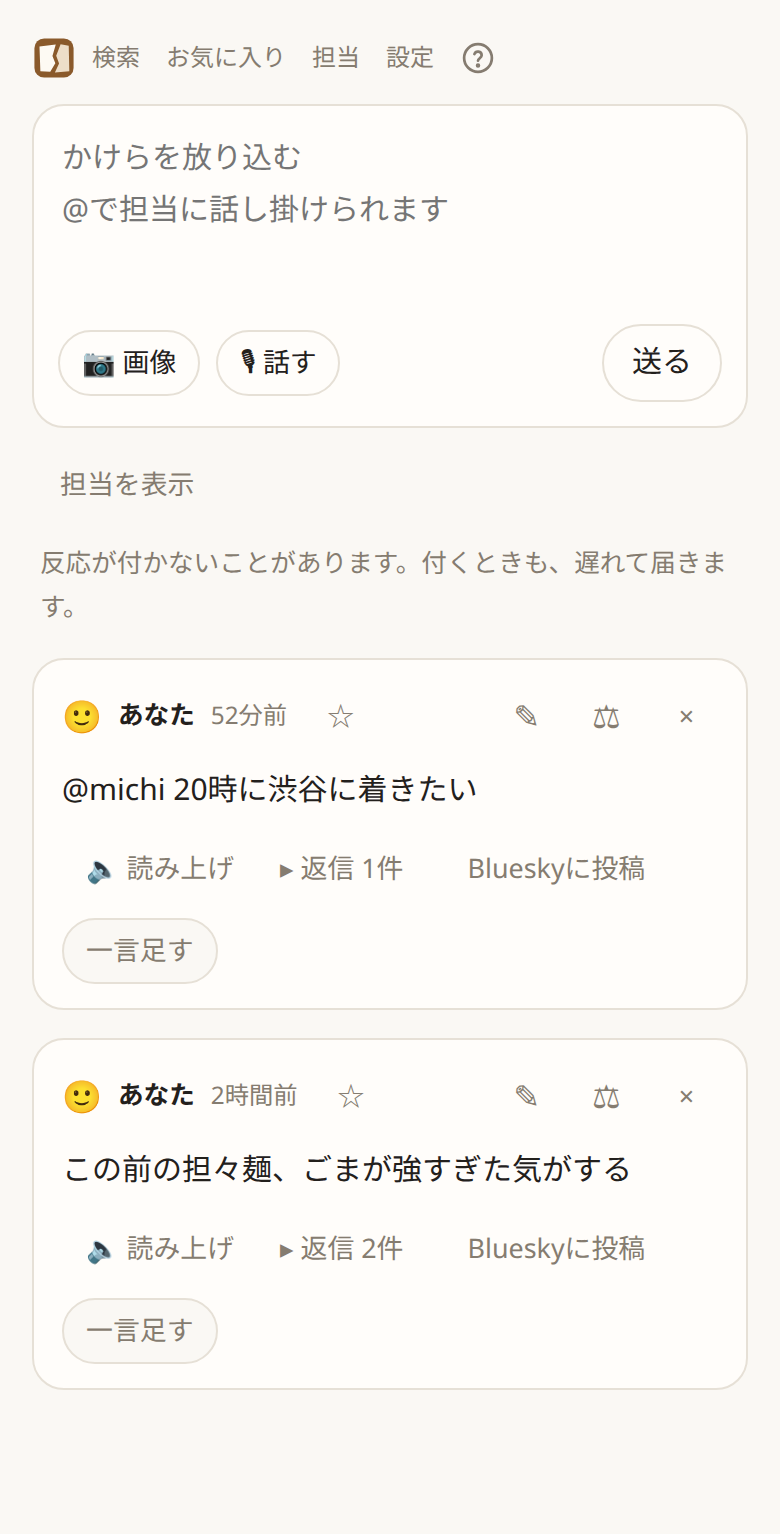
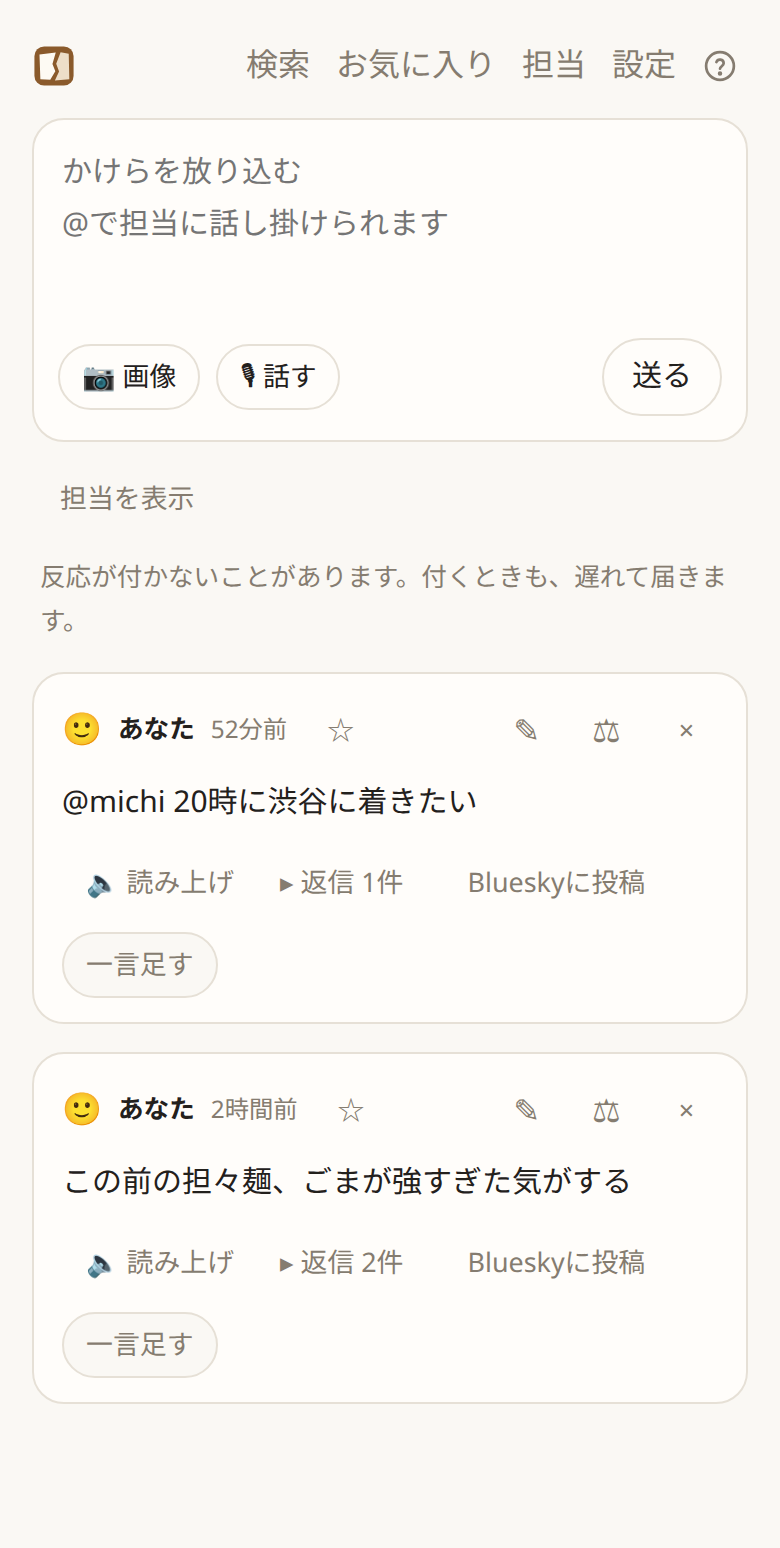
Align mobile navigation and constrain enlarged settings layout

diff --git a/frontend/src/styles.css b/frontend/src/styles.css
@@ -66,12 +66,13 @@ body {
 .brand-mark { width: 22px; height: 22px; border-radius: 6px; }
 /* Navigation stays separate from each thread’s read-aloud control. */
 .topbar .nav { font-size: 0.8rem; white-space: nowrap; }
-/* Compact navigation uses the space beside the brand on phones.
+/* Compact navigation aligns to the right of the brand on phones.
    Keep wrapping available for large text and especially narrow screens. */
 @media (max-width: 480px) {
-  .topbar { gap: 3px; flex-wrap: wrap; }
+  .topbar { gap: 3px; flex-wrap: wrap; justify-content: flex-end; }
+  .topbar .brand { margin-right: auto; }
   .topbar > .spacer { display: none; }
-  .topbar .nav { font-size: .75rem; padding: 4px; }
+  .topbar .nav { font-size: 1rem; padding: 4px; }
   .topbar .nav.help, .topbar .nav.logout { padding: 4px; }
   .brand-name { display: none; }
 }
@@ -393,7 +394,14 @@ body.sheet-open .topbar { z-index: 21; }
 .model-picker-list .hint { padding: 8px; }
 /* The settings sheet: each h3 opens a section, set off by a rule and an accent
    label, so a long sheet reads as a few groups rather than one column. */
-.settings-panel { gap: 12px; padding-bottom: 32px; }
+.settings-panel { grid-template-columns: minmax(0, 1fr); gap: 12px; padding-bottom: 32px; overflow-wrap: anywhere; }
+/* Native controls and nested grids can otherwise impose their content width,
+   especially with enlarged text or long device-specific voice names. */
+.settings-panel :is(.field, .settings-block, .advanced-body, .advanced-category-body, .openrouter-models, .mcp-connection, .mcp-connection-row, .bluesky-connection) {
+  min-width: 0;
+  grid-template-columns: minmax(0, 1fr);
+}
+.settings-panel :is(input, select, button, .chip) { min-width: 0; max-width: 100%; }
 .settings-panel p { margin: 0; line-height: 1.6; }
 .settings-panel h3 {
   margin: 18px 0 0;

diff --git a/frontend/manual/index.html b/frontend/manual/index.html
@@ -131,7 +131,7 @@
         <section id="ja-timeline">
           <h2>3. 反応を読む・返す</h2>
           <figure>
-            <img src="/captures/ja/timeline.png" alt="タイムライン。自分のかけらの下に、担当の発言が折りたたまれて並ぶ" loading="lazy" width="390" height="767" />
+            <img src="/captures/ja/timeline.png" alt="タイムライン。自分のかけらの下に、担当の発言が折りたたまれて並ぶ" loading="lazy" width="390" height="774" />
             <figcaption>自分のかけらと、その下の担当の発言。会話は「返信 N件」の下にたたまれます。</figcaption>
           </figure>
           <h3>反応の届き方</h3>
@@ -722,7 +722,7 @@
         <section id="en-timeline">
           <h2>3. Reading and replying</h2>
           <figure>
-            <img src="/captures/en/timeline.png" alt="The timeline: your fragments, with what the personas said folded underneath" loading="lazy" width="390" height="771" />
+            <img src="/captures/en/timeline.png" alt="The timeline: your fragments, with what the personas said folded underneath" loading="lazy" width="390" height="778" />
             <figcaption>Your fragments with what the personas said underneath. Conversations fold under “N replies”.</figcaption>
           </figure>
           <h3>How reactions arrive</h3>

diff --git a/frontend/.storybook/preview.js b/frontend/.storybook/preview.js
@@ -1,10 +1,23 @@
 import "../src/styles.css";
 import { setLanguage } from "../src/i18n.js";
+import { setTextSize } from "../src/text-size.js";
 
 // Both languages come out of the same source strings, so a story that reads
 // well in one and badly in the other is worth seeing without a rebuild.
 export default {
   globalTypes: {
+    textSize: {
+      description: "文字サイズ",
+      toolbar: {
+        icon: "zoom",
+        items: [
+          { value: "standard", title: "標準" },
+          { value: "large", title: "大" },
+          { value: "xlarge", title: "特大" },
+        ],
+        dynamicTitle: true,
+      },
+    },
     lang: {
       description: "表示言語",
       toolbar: {
@@ -17,11 +30,12 @@ export default {
       },
     },
   },
-  initialGlobals: { lang: "ja" },
+  initialGlobals: { lang: "ja", textSize: "standard" },
   decorators: [
     (story, context) => {
       setLanguage(context.globals.lang || "ja");
       document.documentElement.lang = context.globals.lang || "ja";
+      setTextSize(context.globals.textSize || "standard");
       return story();
     },
   ],

diff --git a/frontend/lp/index.html b/frontend/lp/index.html
@@ -57,8 +57,8 @@
           </div>
         </div>
         <figure class="shot">
-          <img class="ja" src="/captures/ja/timeline.png" alt="タイムライン。自分のかけらの下に、担当の発言が並ぶ" width="390" height="767" />
-          <img class="en" src="/captures/en/timeline.png" alt="The timeline: your fragments, with what the personas said underneath" width="390" height="771" />
+          <img class="ja" src="/captures/ja/timeline.png" alt="タイムライン。自分のかけらの下に、担当の発言が並ぶ" width="390" height="774" />
+          <img class="en" src="/captures/en/timeline.png" alt="The timeline: your fragments, with what the personas said underneath" width="390" height="778" />
         </figure>
       </section>
 

diff --git a/frontend/stories/Settings.stories.js b/frontend/stories/Settings.stories.js
@@ -13,6 +13,11 @@ function panelOf(current, info = about, extra = {}) {
 }
 
 export const Default = { name: "既定（Nebius・ブラウザ音声認識）", render: () => panelOf(settings) };
+export const ExtraLarge = {
+  name: "特大文字（スマホ幅の確認）",
+  globals: { textSize: "xlarge" },
+  render: () => panelOf(settings),
+};
 export const Dictating = { name: "Web検索あり・音声のAI整形ON", render: () => panelOf(dictatingSettings) };
 export const InitialSetup = { name: "初回設定", render: () => panelOf({ ...settings, apiKey: "" }) };
 // Once an external agent is connected, the waits before falling back show.

diff --git a/docs/system/frontend.md b/docs/system/frontend.md
@@ -12,13 +12,15 @@ Frontend composition, requests, live updates, reminder push notifications, offli
 
 ## Initialization and components
 
-`bootstrap.js` checks authentication before loading `app.js`. `app.js` assembles the composer, persona list, timeline, and settings, search, memory, and other panels. `screen.js` provides the basic layout; `feed.js` renders conversations and their controls. Logout is an icon button with a localized accessible label and tooltip. On phones, the brand name and the desktop spacer are hidden so navigation uses the space beside the brand mark; controls can still wrap for narrow screens or enlarged text.
+`bootstrap.js` checks authentication before loading `app.js`. `app.js` assembles the composer, persona list, timeline, and settings, search, memory, and other panels. `screen.js` provides the basic layout; `feed.js` renders conversations and their controls. Logout is an icon button with a localized accessible label and tooltip. On phones, the brand name and the desktop spacer are hidden; the brand mark stays on the left with an automatic trailing margin, and navigation aligns to the right. Phone navigation uses a one-rem font (16 pixels at the standard setting). Controls can still wrap for narrow screens or enlarged text, with wrapped rows also aligned to the right.
 
 Panels have dedicated modules for persona creation and editing, routing checks, reply corrections, memory browsing, and other functions. The app opens and closes them. `dom.js` centralizes DOM creation and notifications; `i18n.js` handles interface language. `compose.js` starts the text field at three lines and includes an @ mention hint in its placeholder. `room.js` initially hides all persona badges under the composer on every screen size; **Show personas** expands all badges, grouped into interests and people, and **Collapse** hides them again; a tap on a badge writes `@name` in the composer through `compose.mention`, so a newcomer sees how to ask someone; right-clicking a badge or holding it for 550 ms on touch opens a dialog with **Settings**, **View memory**, and **Edit**, wired to the persona panel and existing memory viewer/editor; moving the touch cancels the hold so a badge can be dragged to a new place within its group (pointer events, so it works by touch), and the order is kept in this browser's `localStorage` (`kakeratta.room.order`) and applied by `arranged`. Badges that step aside glide into place (Web Animations, skipped under reduced motion), and the first time a group has badges to swap, the first one nudges sideways once (`kakeratta.room.hinted`) so they read as movable. `text-size.js` keeps the text size (standard, large, extra large) in this browser's `localStorage`, like the language, and applies it by scaling the root font size at startup and when the Settings sheet changes it; the page is sized in rem, so all of it follows.
 
 Persona badges disable browser text selection and the iOS touch callout (`user-select`, `-webkit-user-select`, and `-webkit-touch-callout` in [styles.css](../../frontend/src/styles.css)), so holding a badge opens its menu without leaving native text-selection handles over the controls. Their existing pointer handlers continue to handle taps, holds, and dragging.
 
 The built-in `sona` (`routine`) is labeled **Preparation** and declares scheduling and weather forecasts. Its sharing check-in description includes upcoming plans alongside recent records and memory; its default activation is defined by the backend settings.
+
+The settings panel uses a shrinkable single-column grid, including nested fields and advanced groups. Native controls have zero minimum width and a maximum width of their container, and long text can wrap anywhere; enlarged text and device-specific option names therefore do not force horizontal scrolling. Storybook provides a text-size toolbar and an **ExtraLarge** settings story using the same `text-size.js` scaling as the application.
 
 ## Choosing whether a persona remembers
 
